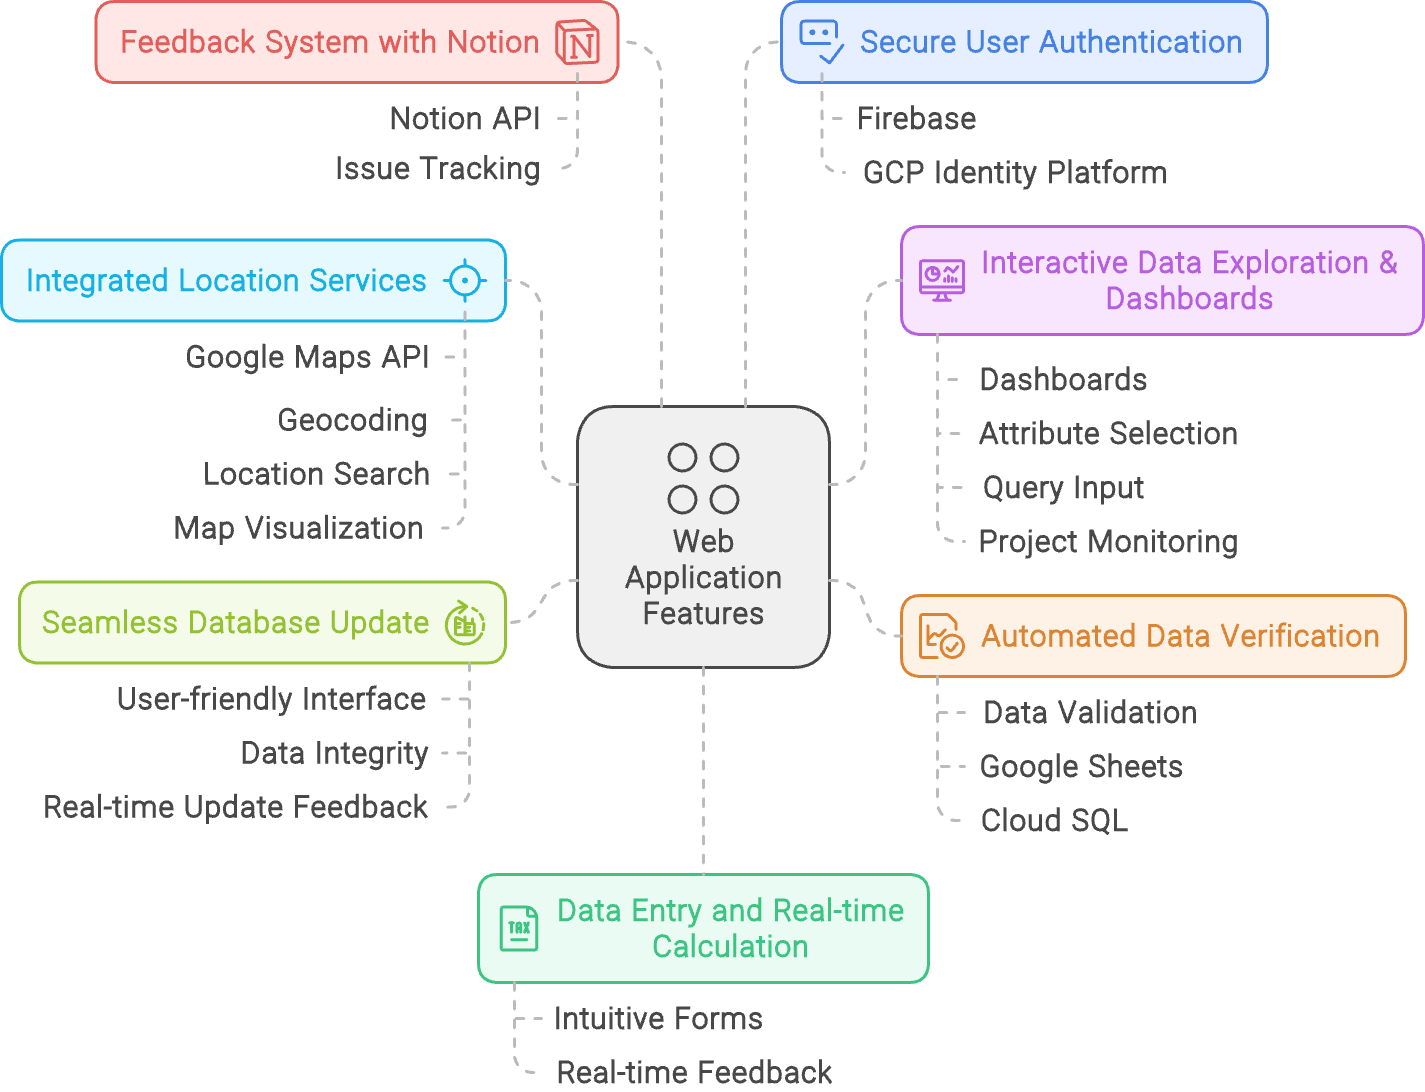
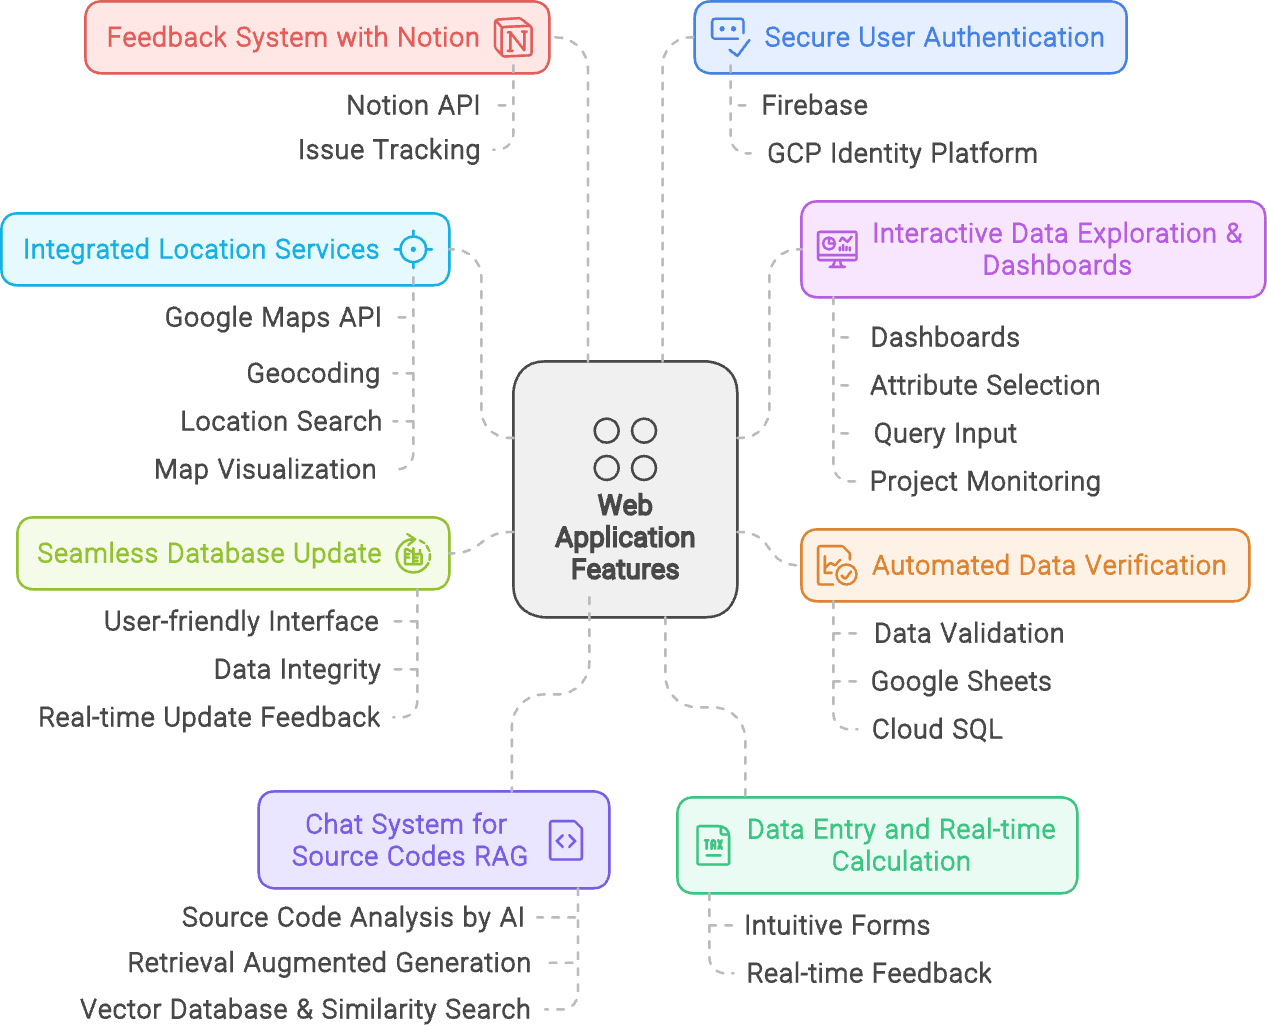
add new system architecture and update key features and technology used charts

diff --git a/README.md b/README.md
@@ -2,6 +2,8 @@
 
 This project is a Python-based web application that I developed at Drone Cleaning Company that I joined as a Co-op Innternship placement. 
 
+Note: I got the permission to post the following system architecture and web app application.
+
 **Key Features:**
 
 1. Secure User Authentication: Restricts access to authorized users via a robust login system using Firebase and GCP Identity
@@ -12,6 +14,7 @@ Platform.[^1]
 5. Interactive Data Exploration & Dashboards: Provides intuitive dashboards on the homepage and a dedicated dashboard page, enabling users to select attributes, and input queries for data retrieval and analysis, monitor cleaning project completion, facilitate quick review for each cleaning project.[^5]
 6. Seamless Database Update: Allows users to efficiently update database records with a user-friendly interface and built-in data validation, ensuring data accuracy and integrity while providing real-time feedback on update status.[^6]
 7. Feedback System with Notion: Streamlines user feedback collection by integrating with Notion API, allowing users to submit feedback and optional screenshots directly to a designated Notion page, facilitating efficient issue tracking and web app improvement.[^7]
+8. AI-Powered Source Code Exploration: Leverages Google Gemini LLM and a FAISS vector database, providing Retrieval Augmented Generation(RAG) system through a user-friendly chat interface to understand web application source codes.[^8]
 
 ![Key Features Visualization](https://github.com/RanArino/Coop-Project/blob/main/docs/KeyFeatures.png)
 
@@ -53,3 +56,4 @@ For a detailed visual representation of the system's workflow and interactions, 
 [^5]: The interactive dashboards provide users with powerful tools for data exploration and analysis. [Dashboard.png](https://github.com/RanArino/Coop-Project/blob/main/docs/architectures/Dashboard.png)
 [^6]: Seamless database updates streamline data management and ensure data integrity. [DBUpdate.png](https://github.com/RanArino/Coop-Project/blob/main/docs/architectures/DBUpdate.png)
 [^7]: The Notion API integration facilitates efficient feedback collection and issue tracking. [Feedback.png](https://github.com/RanArino/Coop-Project/blob/main/docs/architectures/Feedback.png)
+[^8]: The RAG system led by Google Gemini and FIASS vector DB boosts the understanding of source codes. [CodingRAG.png](https://github.com/RanArino/Coop-Project/blob/main/docs/architectures/CodingRAG.png)
